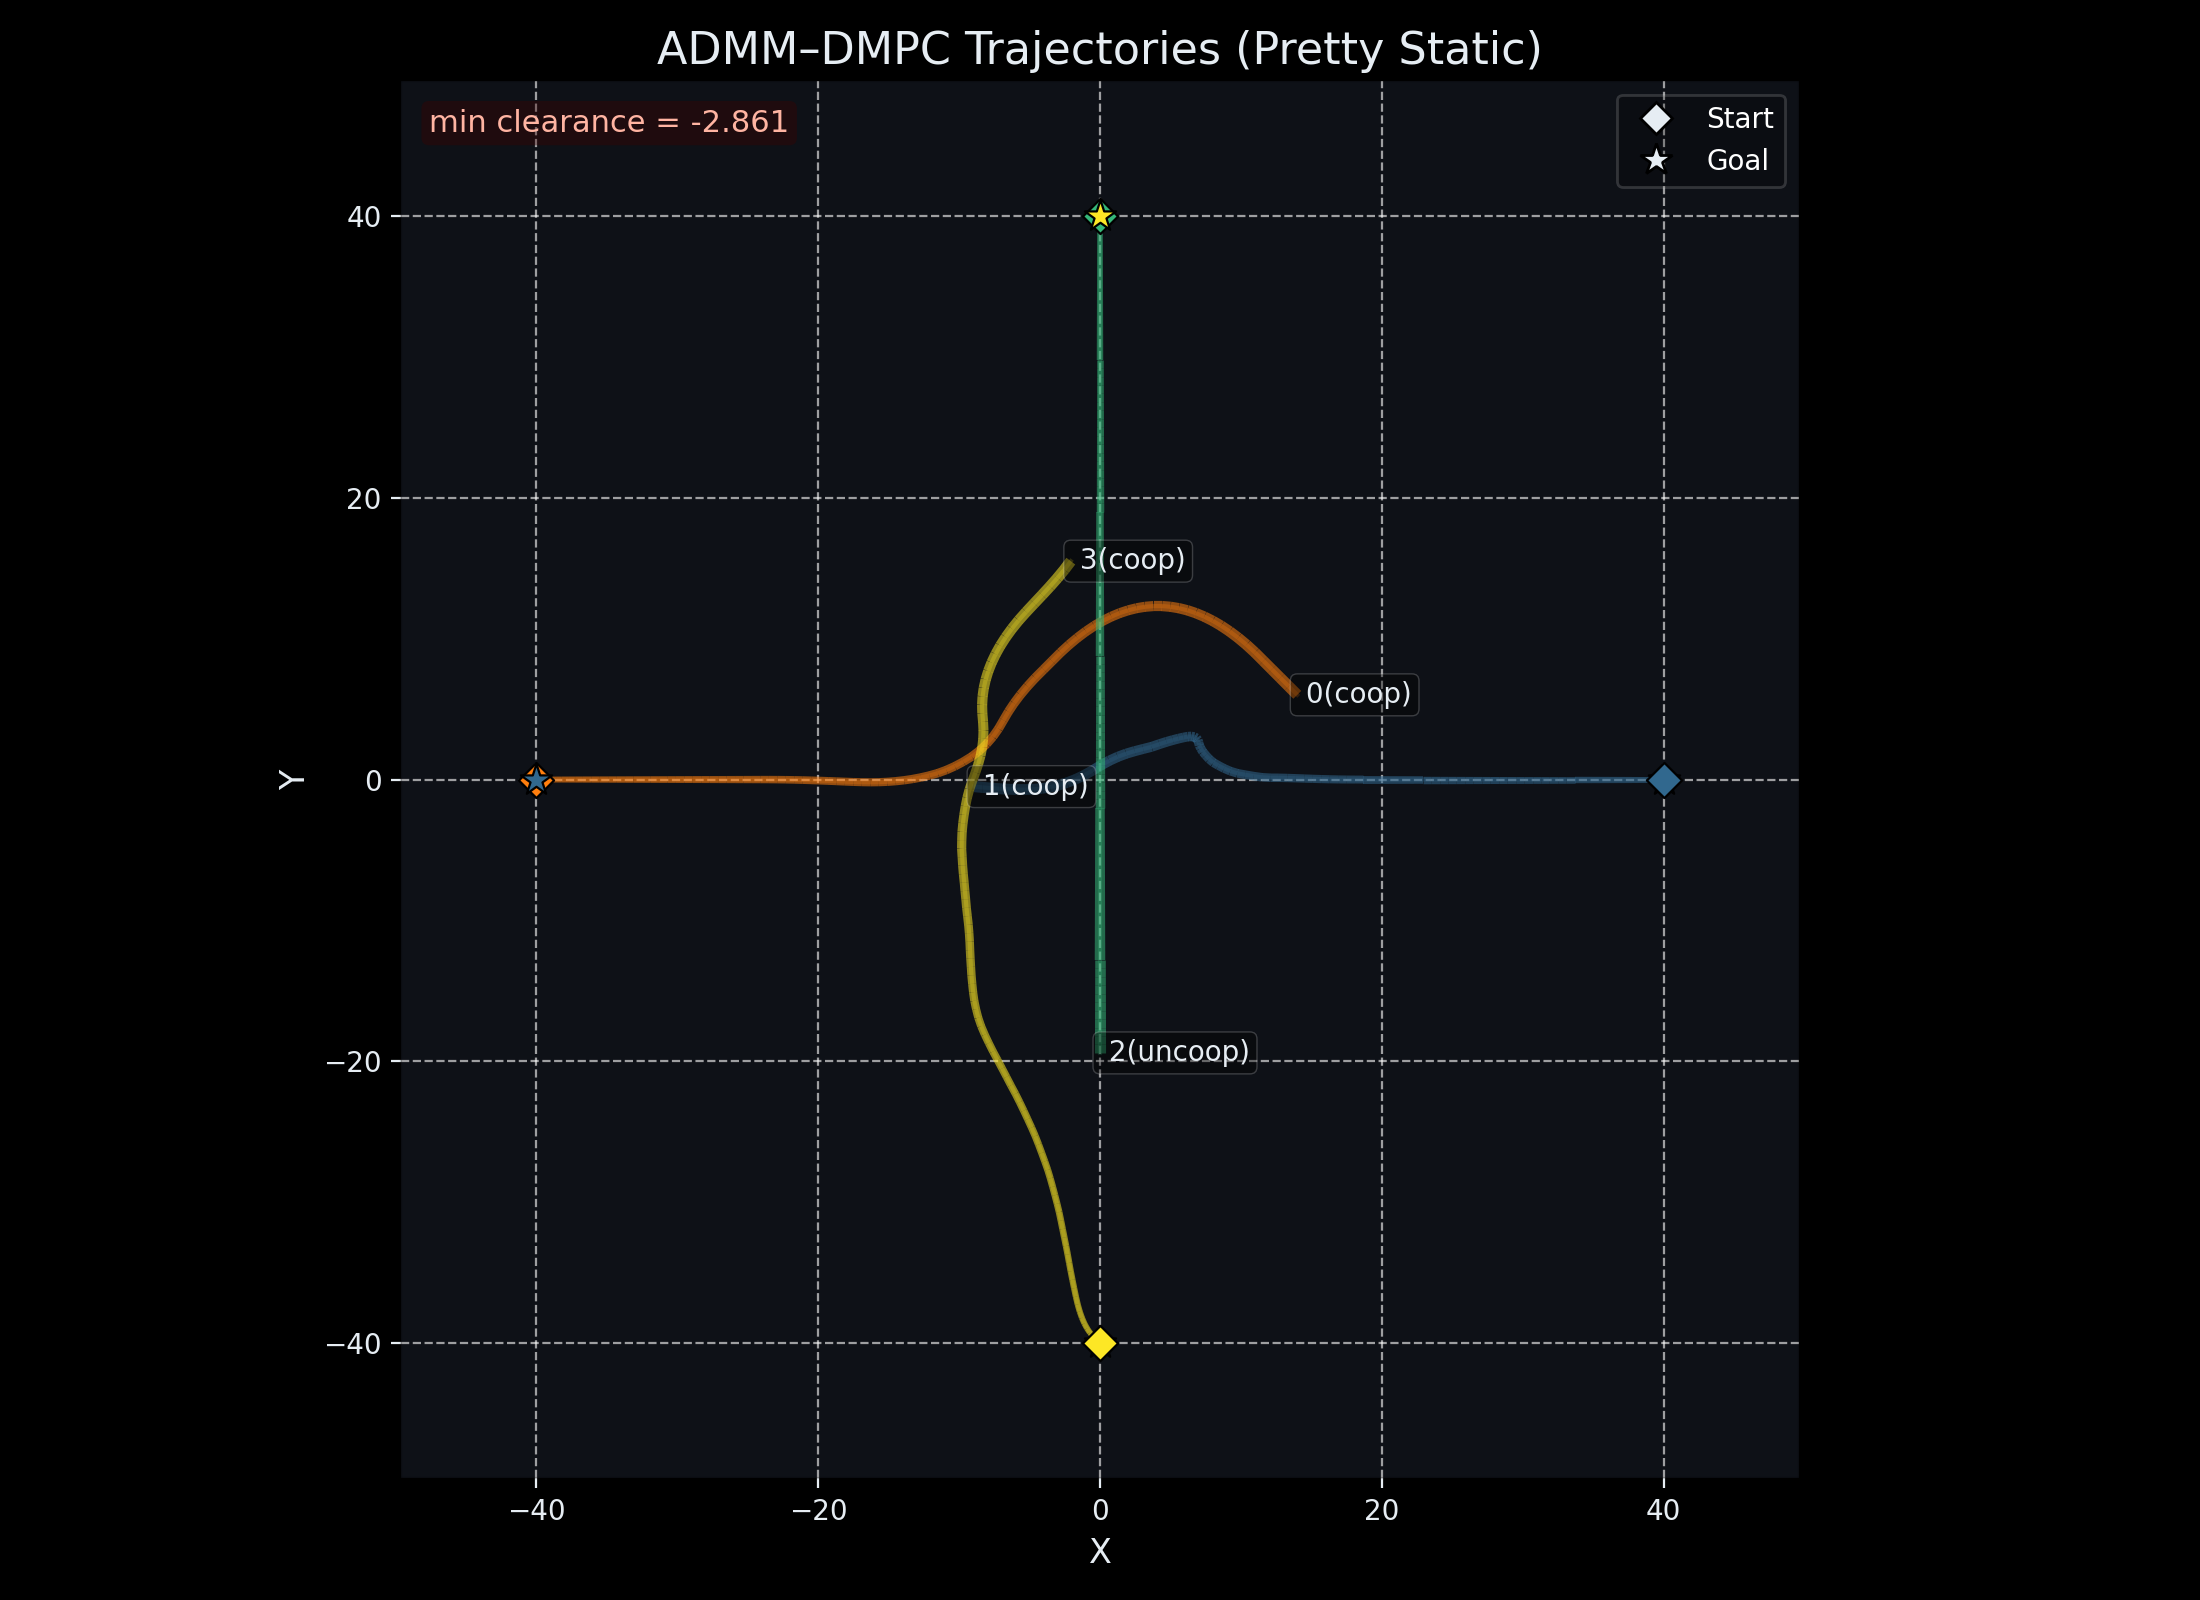
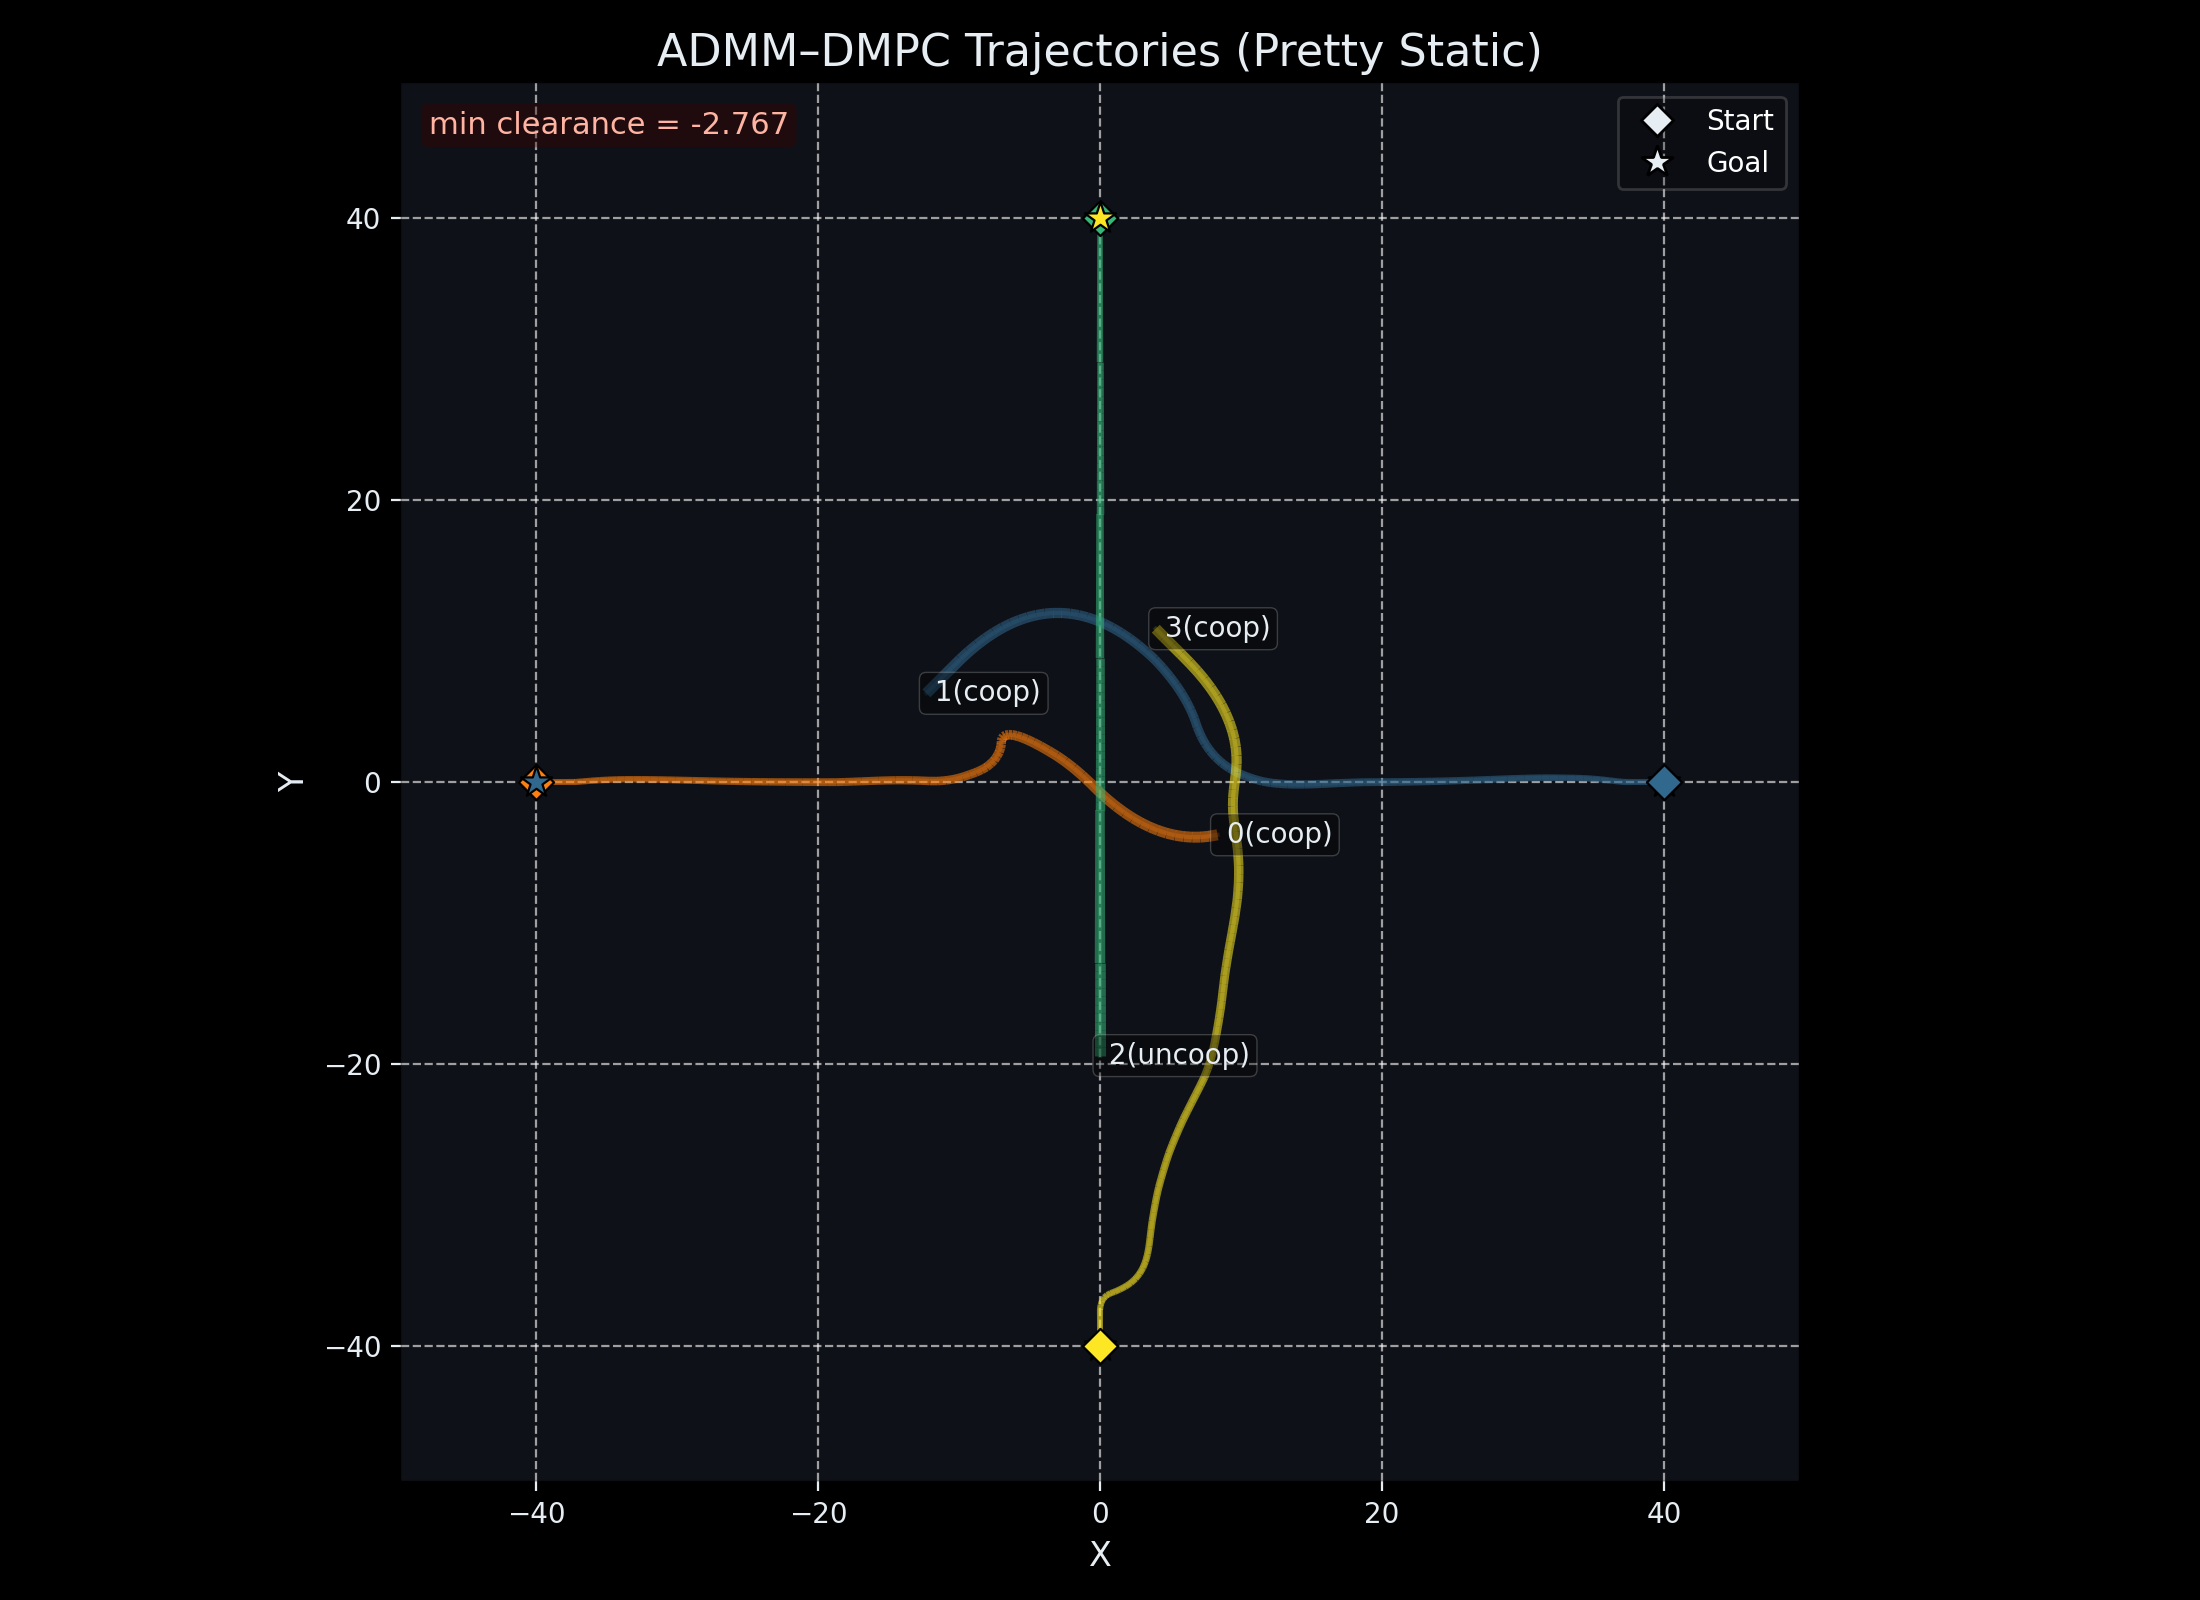
Update collision avoidance script and results (MAX_MPC=100)

diff --git a/src/Fully_Decentralized_ADMM_Collision_Avoidance.py b/src/Fully_Decentralized_ADMM_Collision_Avoidance.py
@@ -367,6 +367,8 @@ class Agent:
         target_loc = self.target_traj_local()
 
         # i-로컬에서 선형화 정보 구성 (Nc U Nu)
+        # NOTE: Prediction 단계에서는 이 제약을 QP에 넣지 않지만(Splitting),
+        #       Coordination 단계에서 쓸 eta/hbar 초기화를 위해 계산은 유지합니다.
         neigh_ids = set(self.Nc) | set(self.Nu)
         lincons = []
         for j in neigh_ids:
@@ -383,13 +385,15 @@ class Agent:
             lincons.append((eta, xi_bar.copy(), xj_bar.copy(), base_gap.copy()))
 
         # QP (i-local)
+        # [MODIFICATION]: ADMM Splitting 전략에 따라 Prediction 단계에서는
+        #                 Dynamics만 고려하고 충돌 제약(lincons)은 제외합니다.
         x0_local = np.zeros(2)  # 로컬 원점
         prob, x, v, a = build_double_integrator_QP_local(
             x0_local, self.v0, target_loc,
             self.w, self.lmb,
             self.w_plus, self.lmb_plus,
             Q, R, v_max, a_max, rho, H, T,
-            lincons=None
+            lincons=None  # <--- 논문 Algorithm 2와 일치시키기 위해 None으로 변경
         )
         prob.solve(solver=SOLVER, verbose=False)
         if prob.status in (cp.OPTIMAL, cp.OPTIMAL_INACCURATE):
